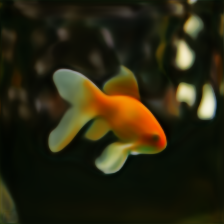
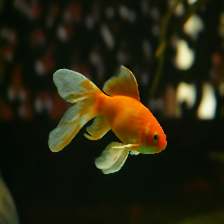
nothing

diff --git a/running_dip.py b/running_dip.py
@@ -22,5 +22,5 @@ import torch
 
 images = ['goldfish.jpg', 'panda.jpg']    #,'peacock.jpg','F16_GT.png','monkey.jpg','zebra_GT.png']
 for i in images:
-    adv, orig, pert = adversarial_examples("data/{}".format(i), method = "LLCI", eps=1, show=False)
-    out = dip(adv, num_iter=10001, save=True, plot=False, save_path='results/Adv_DIP/{}2'.format(i), arch='simple')
+    adv, orig, pert = adversarial_examples("data/{}".format(i), method = "LLCI", eps=100, show=False)
+    out = dip(adv, num_iter=10001, save=True, plot=False, save_path='results/Adv_DIP/{}2'.format(i), arch='complex')
